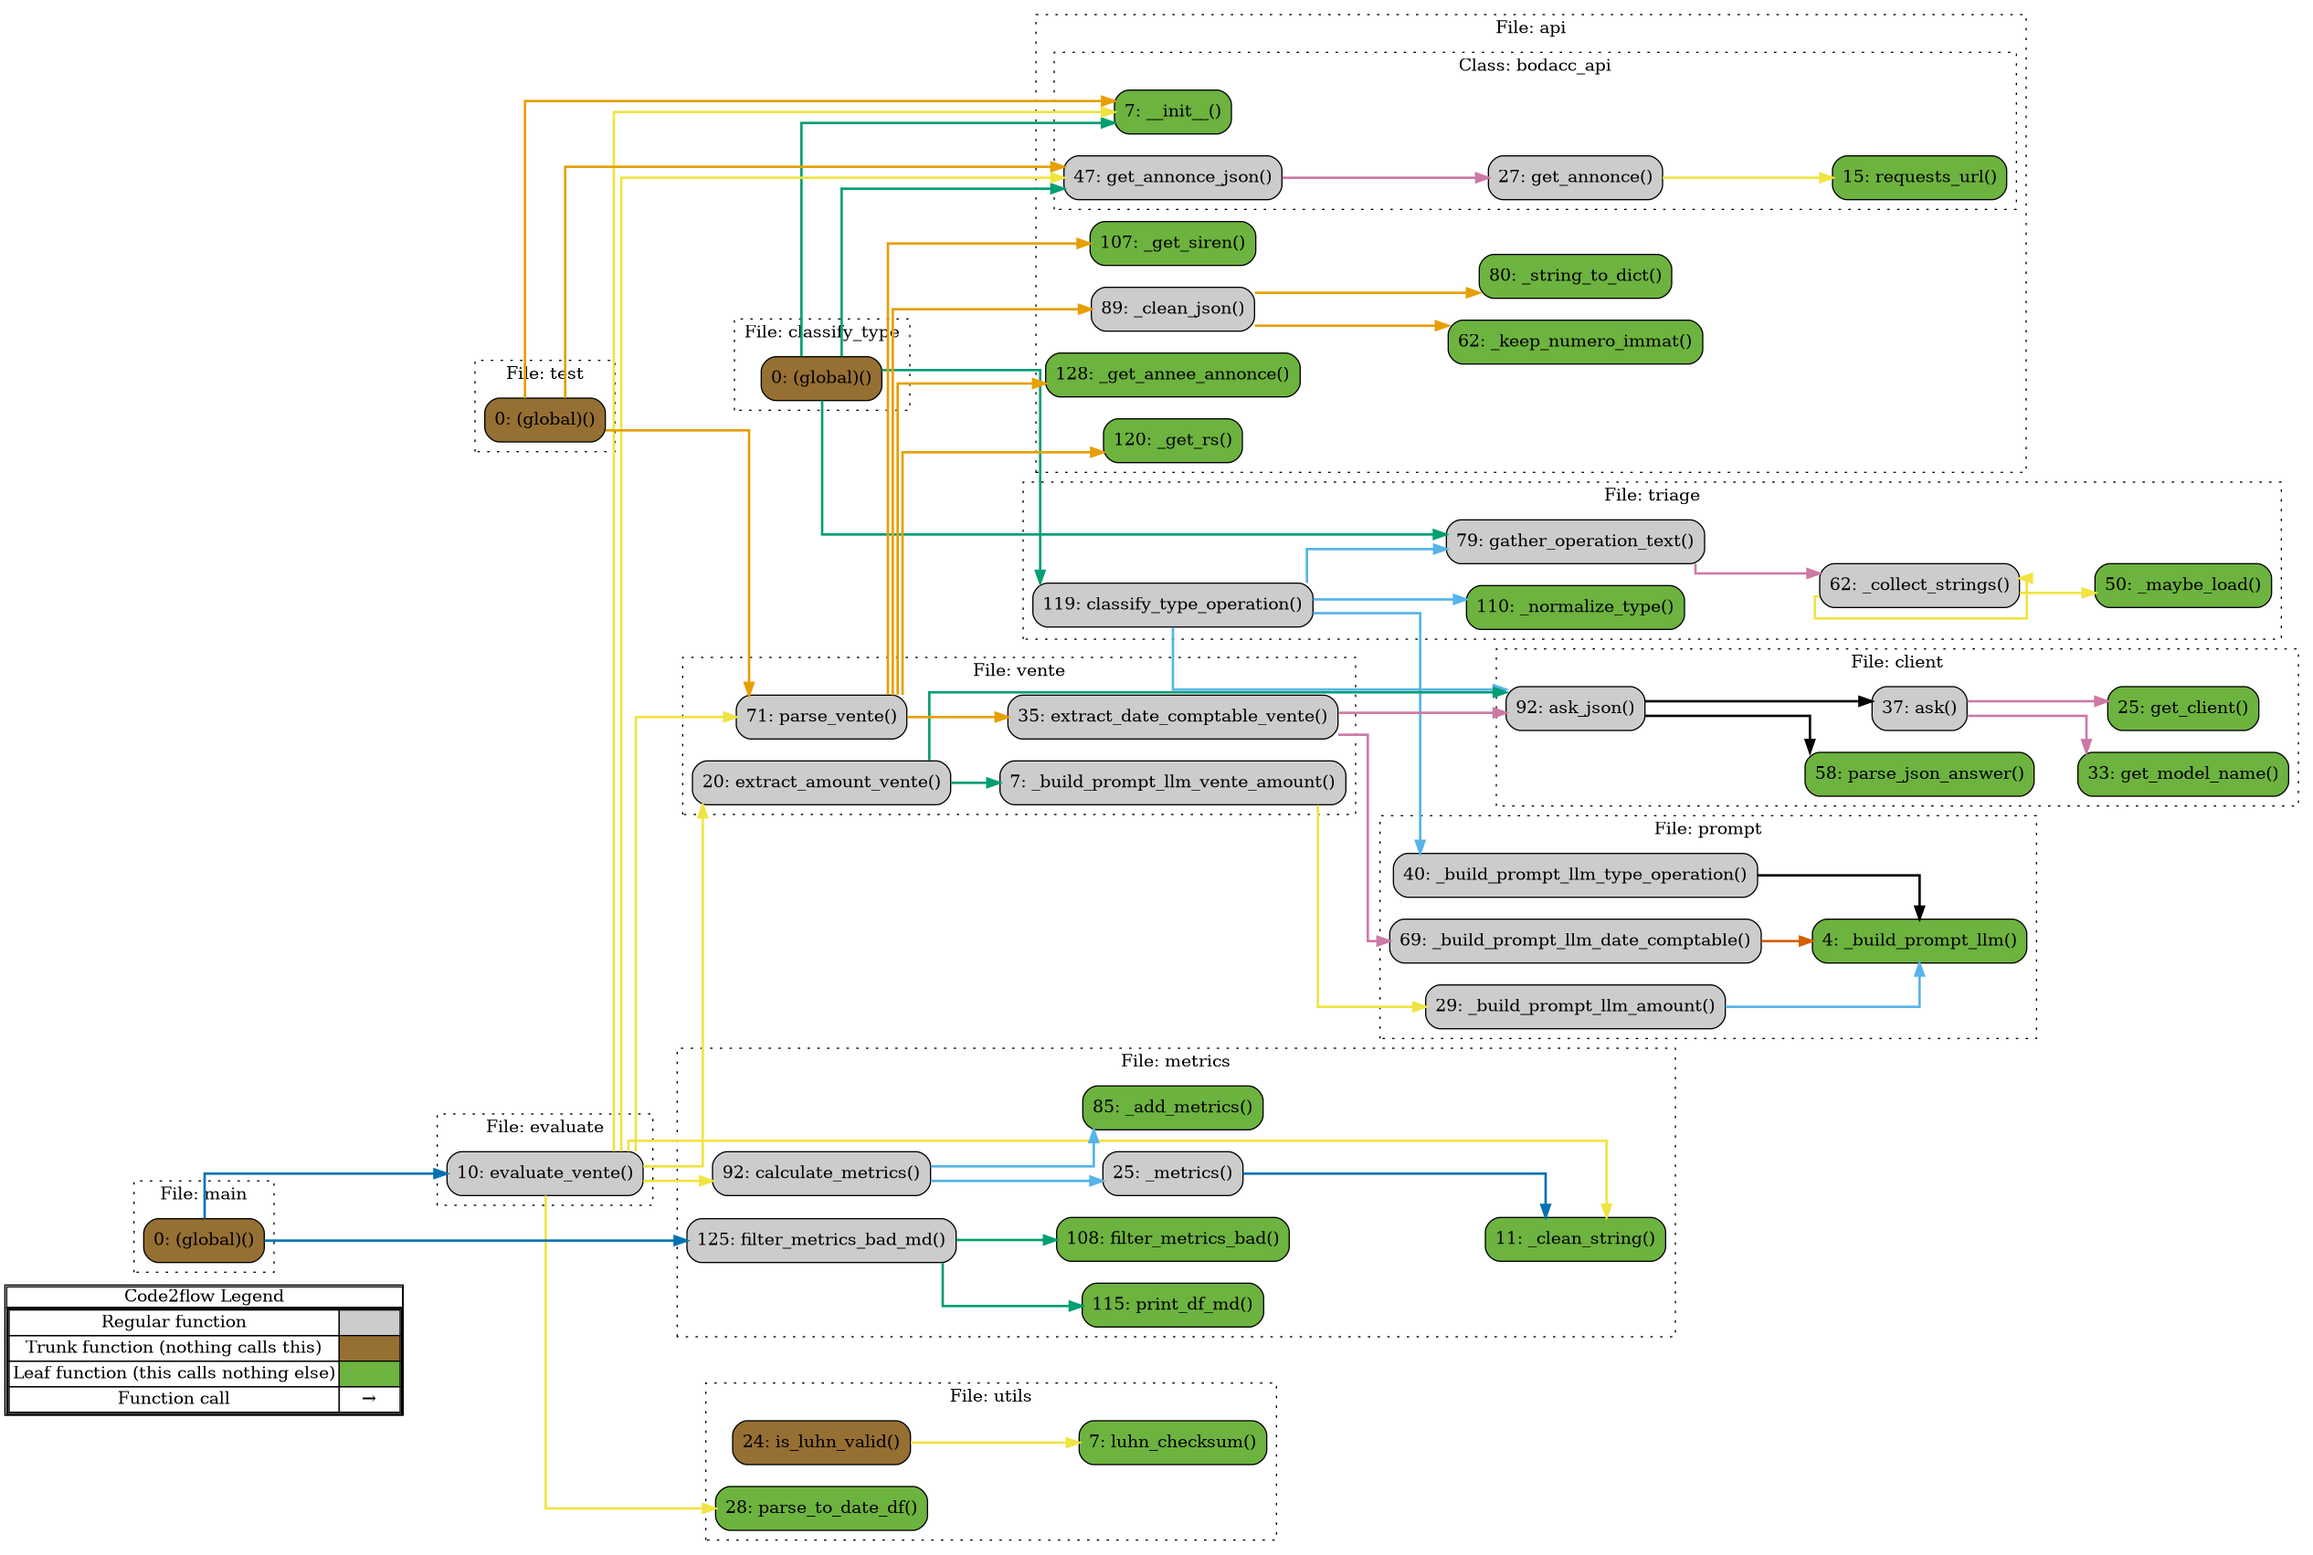
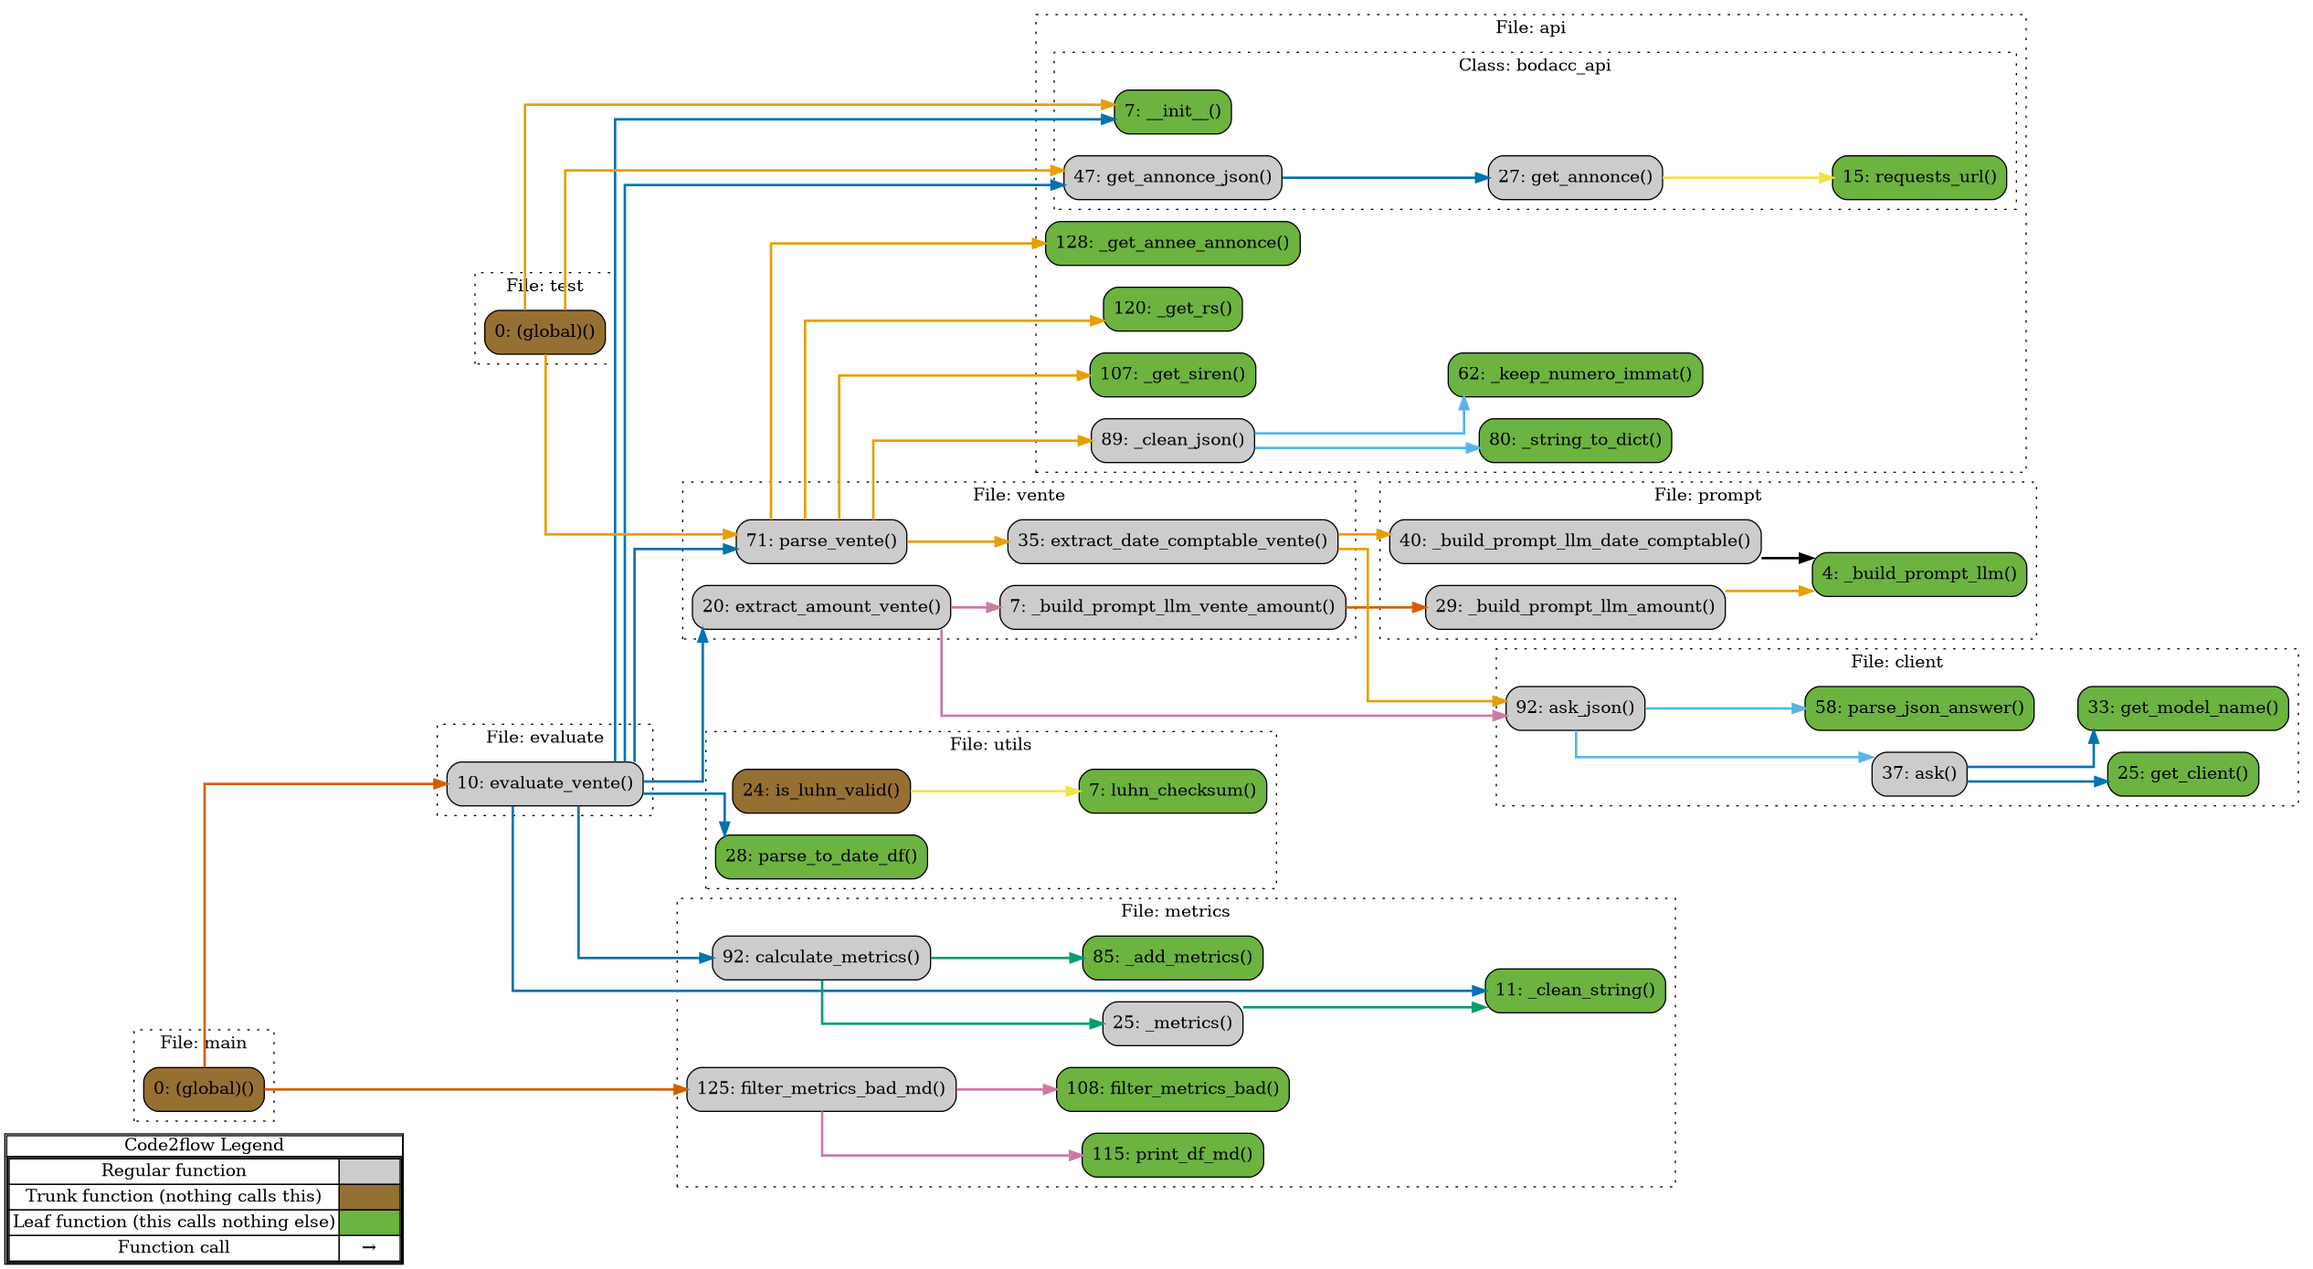
update doc without classification

diff --git a/README.md b/README.md
@@ -39,7 +39,7 @@ The pipeline mixes deterministic parsing with LLM calls:
    first result as a Python dict.
 2. **Classify** — `classify_type_operation` gathers the free-text description
    from wherever it lives in the payload and asks an LLM to return one of the
-   four codes above.
+   four codes above (work in progress).
 3. **Parse** — depending on the type, the matching parser extracts the
    structured fields. Structured/identifier fields (SIREN, raison sociale) are
    read directly from the JSON; free-form fields that vary from one greffe to
@@ -56,7 +56,6 @@ the model to answer with a single JSON object, which is parsed back into a dict.
 ```
 citrus/
 ├── main.py                     # entry point: run the vente evaluation pipeline
-├── classify_type.py            # entry point: classify one announcement's type
 ├── test.py                     # quick manual checks on a single announcement
 └── src/
     ├── __init__.py             # loads .env, configures the "citrus" logger
@@ -67,8 +66,7 @@ citrus/
     │   ├── client.py           # OpenAI-compatible client, ask() / ask_json()
     │   └── prompt.py           # prompt builders (base, amount, date, type)
     ├── operation/
-    │   ├── vente.py            # vente parser + LLM amount / date extraction
-    │   └── type_operation.py   # LLM classifier for the restructuring type
+    │   └── vente.py            # vente parser + LLM amount / date extraction
     └── modele/
         ├── evaluate.py         # evaluate_vente: fetch → parse → compare → save
         └── metrics.py          # per-field comparison metrics
@@ -121,25 +119,6 @@ The logger writes to `log/<timestamp>_citrus.log`. It creates a `log/` directory
 if one doesn't already exist.
 
 ## Usage
-
-### Classify the type of a single announcement
-
-```bash
-uv run classify_type.py A202601261236
-```
-
-This prints the text sent to the model and the resulting code, e.g.
-`A202601261236 -> VE (Vente / cession)`.
-
-Programmatically:
-
-```python
-from src.bodacc.api import bodacc_api
-from src.operation.type_operation import classify_type_operation
-
-annonce = bodacc_api().get_annonce_json("A202601261236")
-type_operation = classify_type_operation(annonce)  # -> "VE" | "FU" | "TUP" | "LG"
-```
 
 ### Run the vente evaluation pipeline
 
